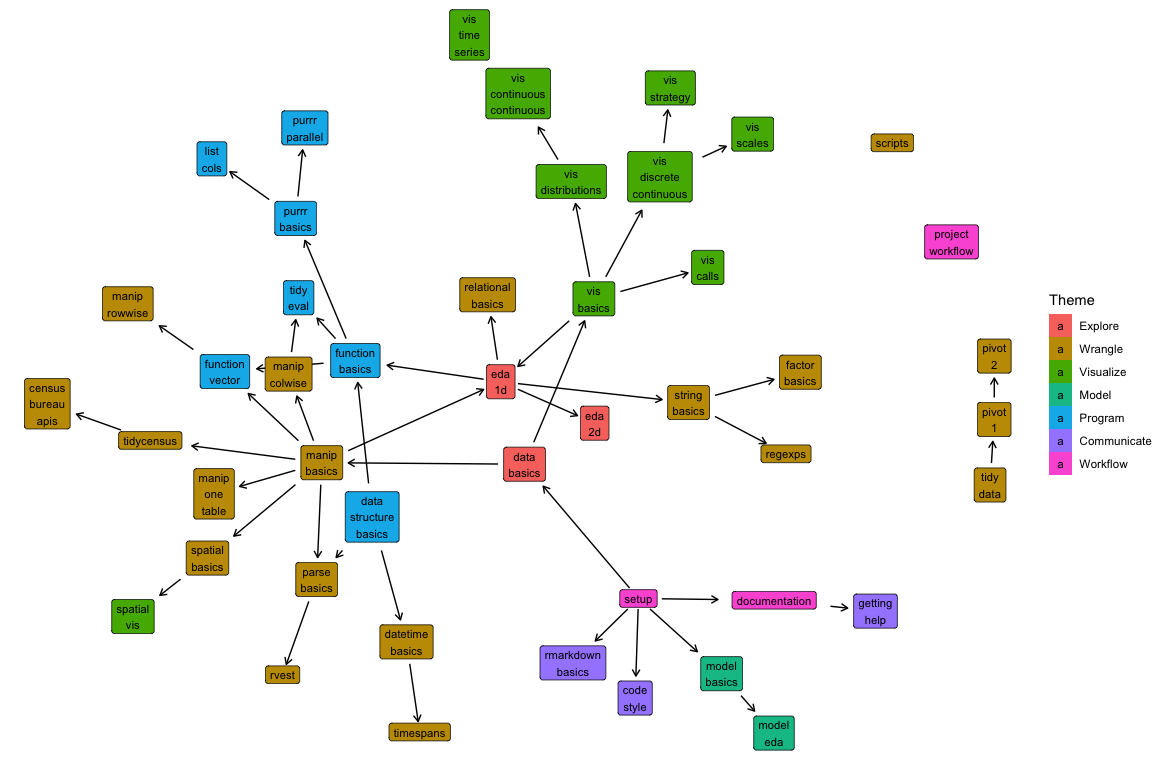
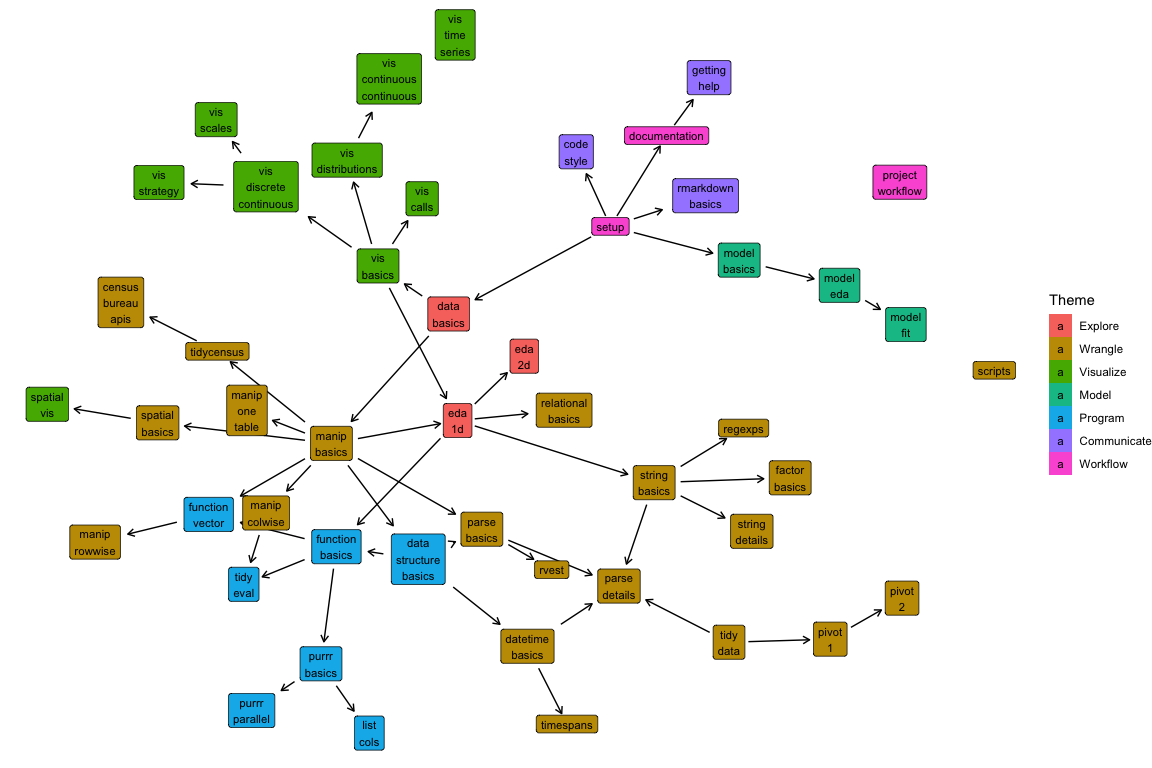
Initial commit

diff --git a/docs/parse-details.md b/docs/parse-details.md
@@ -1,0 +1,28 @@
+---
+title: Parsing details
+---
+
+<!-- Generated automatically from parse-details.yml. Do not edit by hand -->
+
+# Parsing details <small class='wrangle'>[wrangle]</small>
+<small>(Builds on: [Parsing basics](parse-basics.md), [Tidy data](tidy-data.md), [Date/time basics](datetime-basics.md), [String basics](string-basics.md))</small>
+
+You have the basics of parsing files, but now it's time to learn how
+to handle more complicated situations where readr doesn't automatically
+guess the correct columns types. In this unit you'll learn:
+
+* How to parse character vectors that are already in R, and how to
+  tell readr how to parse vectors from disk.
+
+* How to recognize and fix problems caused by readr failing to guess
+  the correct variable type.
+
+## Readings
+
+  * [Parsing a vector](http://r4ds.had.co.nz/data-import.html#parsing-a-vector) [r4ds-11.3]
+
+  * [Parsing a file](http://r4ds.had.co.nz/data-import.html#parsing-a-file) [r4ds-11.4]
+
+  * [Data Import Cheatsheet](https://github.com/rstudio/cheatsheets/blob/master/data-import.pdf) [cheatsheets-data-import]
+
+

diff --git a/docs/string-details.md b/docs/string-details.md
@@ -1,0 +1,19 @@
+---
+title: String details
+---
+
+<!-- Generated automatically from string-details.yml. Do not edit by hand -->
+
+# String details <small class='wrangle'>[wrangle]</small>
+<small>(Builds on: [String basics](string-basics.md))</small>
+
+The glue package contains the functions `glue()` and `glue_data()` as
+alternates to `str_c()` for combining data and strings. These functions can be
+used without loading the glue package through the stringr functions
+`str_glue()` and `str_glue_data()`, respectively.
+
+## Readings
+
+  * [Format and interpolate a string with glue](https://stringr.tidyverse.org/reference/str_glue.html)
+
+

diff --git a/docs/string-basics.md b/docs/string-basics.md
@@ -6,7 +6,7 @@ title: String basics
 
 # String basics <small class='wrangle'>[wrangle]</small>
 <small>(Builds on: [Exploratory data analysis (1D)](eda-1d.md))</small>  
-<small>(Leads to: [Factor basics](factor-basics.md), [Regular expressions](regexps.md))</small>
+<small>(Leads to: [Factor basics](factor-basics.md), [Parsing details](parse-details.md), [Regular expressions](regexps.md), [String details](string-details.md))</small>
 
 The basics of string manipulation will give you the ability to create new
 strings by combining existing strings, or by pulling out values at specific

diff --git a/docs/model-fit.md b/docs/model-fit.md
@@ -1,0 +1,18 @@
+---
+title: Model fitting
+---
+
+<!-- Generated automatically from model-fit.yml. Do not edit by hand -->
+
+# Model fitting <small class='model'>[model]</small>
+<small>(Builds on: [Model EDA](model-eda.md))</small>
+
+You've already learned how to visualize and explore your data in preparation
+for basic modeling. Now, you'll learn how to fit models using a new set
+of packages called tidymodels.
+
+## Readings
+
+  * [Fitting basics](https://dcl-model.stanford.edu/fitting_basics.html) [model-4]
+
+

diff --git a/docs/parse-basics.md b/docs/parse-basics.md
@@ -6,7 +6,7 @@ title: Parsing basics
 
 # Parsing basics <small class='wrangle'>[wrangle]</small>
 <small>(Builds on: [Data structure basics](data-structure-basics.md), [Manipulation basics](manip-basics.md))</small>  
-<small>(Leads to: [rvest](rvest.md))</small>
+<small>(Leads to: [Parsing details](parse-details.md), [rvest](rvest.md))</small>
 
 Most of the data you'll want to use won't be nicely bundled into a package. You'll
 need to read it into R, parsing the file to create a tibble. The readr package

diff --git a/docs/model-eda.md b/docs/model-eda.md
@@ -5,7 +5,8 @@ title: Model EDA
 <!-- Generated automatically from model-eda.yml. Do not edit by hand -->
 
 # Model EDA <small class='model'>[model]</small>
-<small>(Builds on: [Model basics](model-basics.md))</small>
+<small>(Builds on: [Model basics](model-basics.md))</small>  
+<small>(Leads to: [Model fitting](model-fit.md))</small>
 
 There are an infinite number of models that could approximate your data. In this
 unit, you'll learn how to narrow down your search by using EDA to understand 

diff --git a/docs/datetime-basics.md b/docs/datetime-basics.md
@@ -6,7 +6,7 @@ title: Date/time basics
 
 # Date/time basics <small class='wrangle'>[wrangle]</small>
 <small>(Builds on: [Data structure basics](data-structure-basics.md))</small>  
-<small>(Leads to: [Time spans](timespans.md))</small>
+<small>(Leads to: [Parsing details](parse-details.md), [Time spans](timespans.md))</small>
 
 Date/time data includes dates, date-times, and times, but we'll mostly
 focus on dates and date-times. This unit gives you the basic tools you'll

diff --git a/docs/tidy-data.md b/docs/tidy-data.md
@@ -5,7 +5,7 @@ title: Tidy data
 <!-- Generated automatically from tidy-data.yml. Do not edit by hand -->
 
 # Tidy data <small class='wrangle'>[wrangle]</small>
-<small>(Leads to: [Basic pivoting](pivot-1.md))</small>
+<small>(Leads to: [Parsing details](parse-details.md), [Basic pivoting](pivot-1.md))</small>
 
 A __tidy__ data frame is a data frame (or tibble) where the variables are in
 the columns, and the cases (or observations) are in the rows. All the of the

diff --git a/docs/regexps.md b/docs/regexps.md
@@ -17,7 +17,7 @@ new tools that allow you to bend strings to your will.
 
   * [Tools](http://r4ds.had.co.nz/strings.html#tools) [r4ds-14.4]
 
-  * [String manipulation with stringr cheat sheet](https://github.com/rstudio/cheatsheets/blob/master/strings.pdf).
+  * [Work with Strings Cheatsheet](https://github.com/rstudio/cheatsheets/blob/master/strings.pdf) [cheatsheets-strings].
     The Regular Expressions section is a very helpful reference.
 
 

diff --git a/docs/factor-basics.md b/docs/factor-basics.md
@@ -15,6 +15,6 @@ order is rarely the best order.
 
   * [Factors](http://r4ds.had.co.nz/factors.html) [r4ds-15]
 
-  * [Factors with forcats](https://github.com/rstudio/cheatsheets/blob/master/factors.pdf)
+  * [Factors with forcats Cheatsheet](https://github.com/rstudio/cheatsheets/blob/master/factors.pdf) [cheatsheets-factors]
 
 
